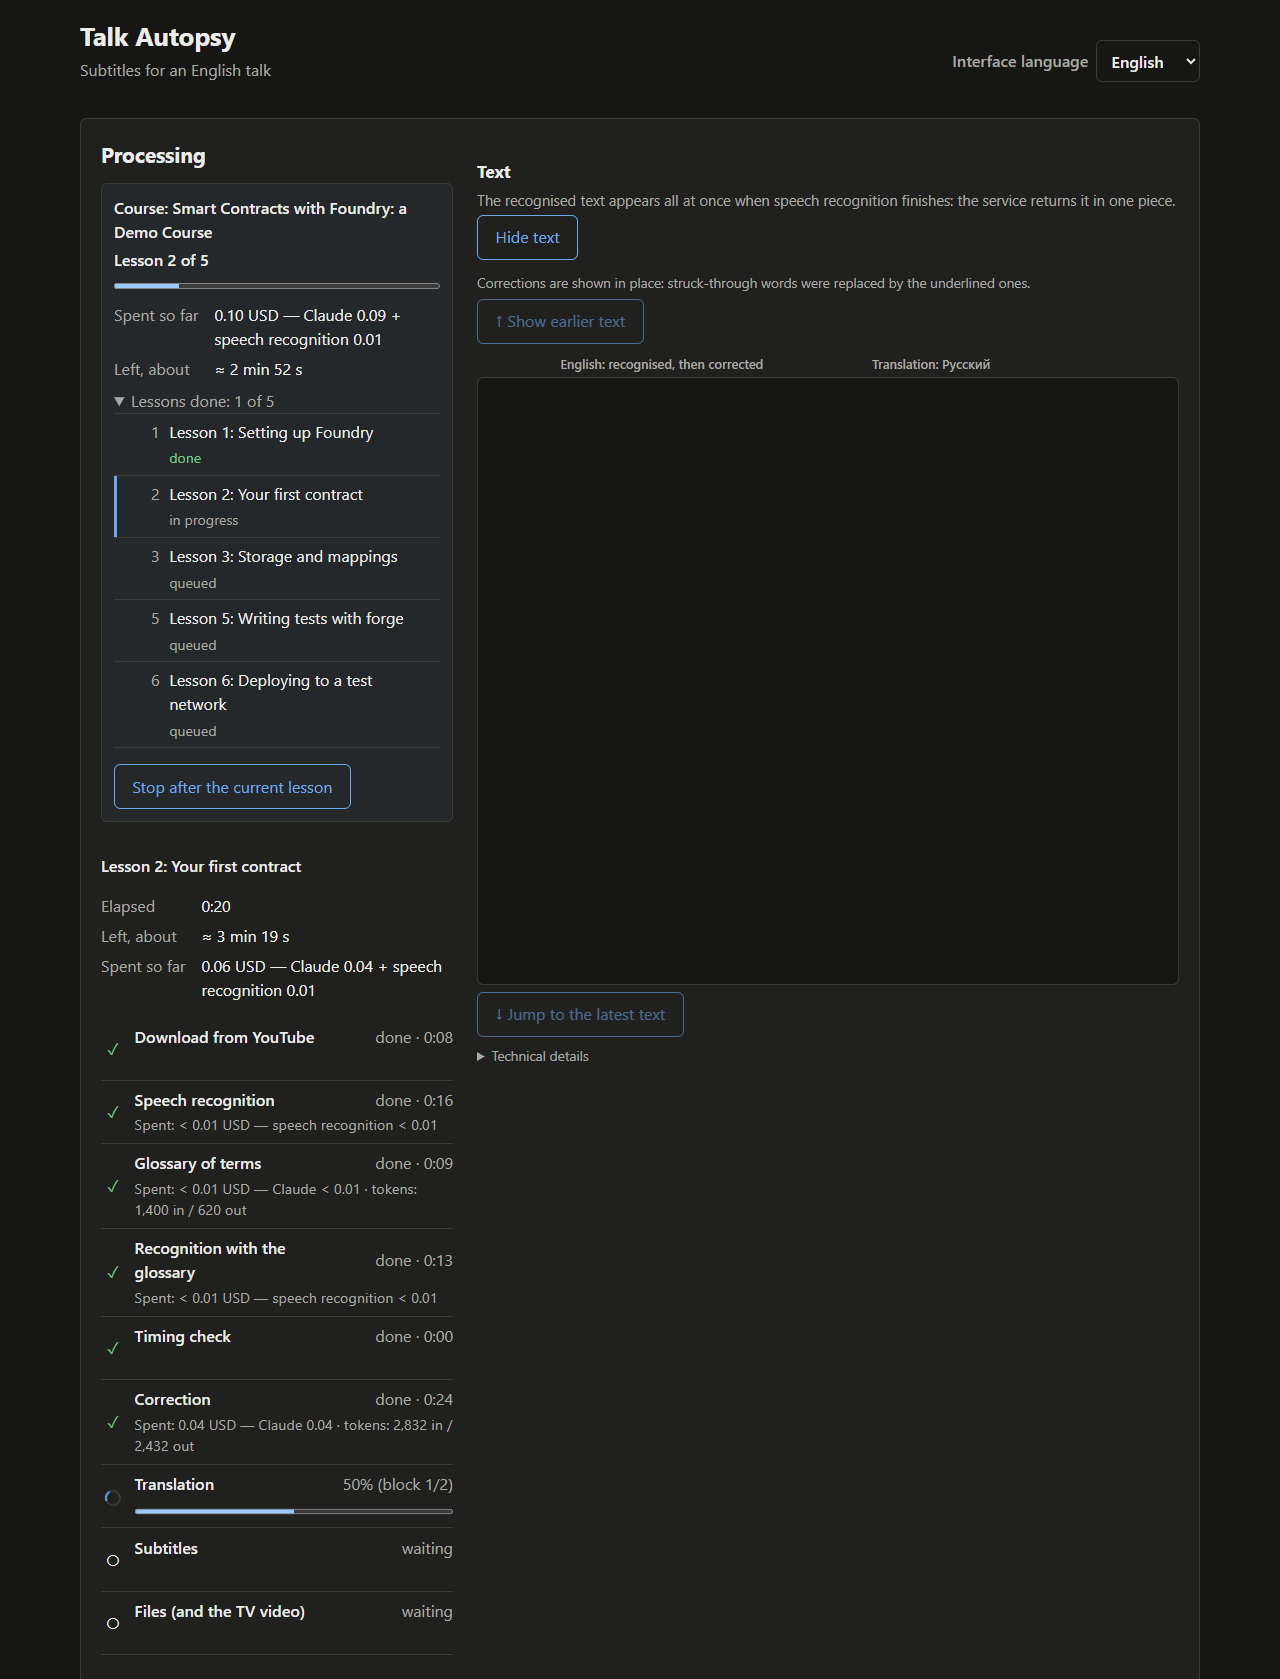
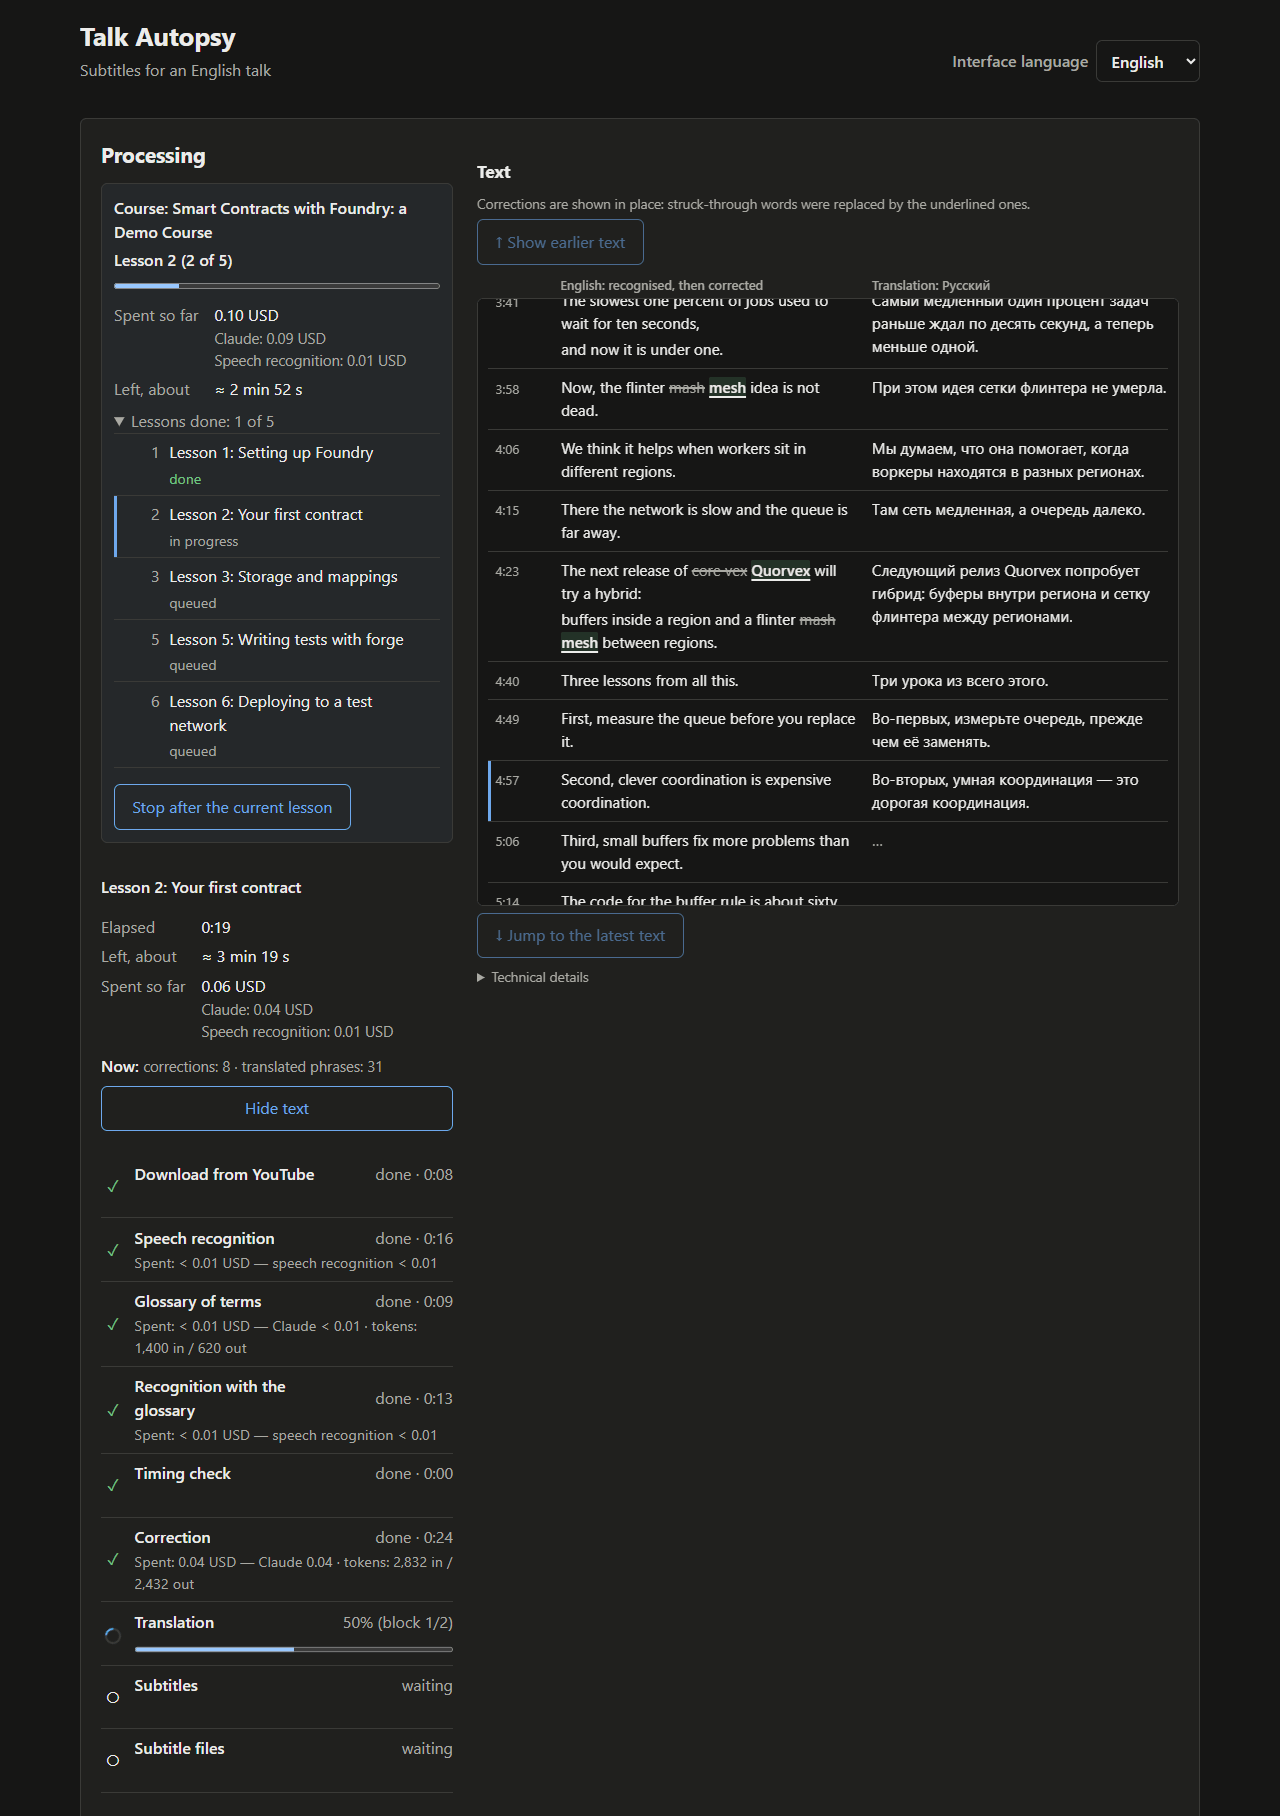
Docs: owner's course notes, web.md and README pictures
Records which of the owner's notes were bugs (fixed with a failing test
first) and which were wording and layout, updates docs/web.md, and
regenerates the README pictures for the new left column (now line, the
text toggle, money lines).

diff --git a/docs/web.md b/docs/web.md
@@ -107,13 +107,22 @@ GET  /api/course/glossary/{id}-> the course glossary file as text
   (3 USD) **in total** the usual confirmation is needed, server-side; each
   lesson then runs with the pipeline's usual ceiling (`JobRunner.allowance`).
 - **Waiting screen.** A course header above the usual one-video view: the
-  course title, "lesson 3 of 12", an overall bar (finished lessons), the money
+  course title, "lesson 13 (3 of 12)" (the playlist position, then the place
+  in this run), an overall bar (finished lessons), the money
   of the course so far (the running lesson included), the time left (the queued
   lessons' estimates plus the running lesson's own remaining time), the lessons
   with their status (queued / in progress / done / error / skipped; an error
   with its reason in words, the same sentences as the Failed screen) and "Stop
   after the current lesson" (the lesson finishes; the rest stay queued). A
-  failed lesson does not stop the course.
+  failed lesson does not stop the course. The page stops following a lesson's
+  text one second after the lesson ends, but only that lesson's: the course
+  attaches the next one at once (bug, 2026-11-15: the next lesson's panel froze,
+  with no new rows, no scrolling and both buttons disabled). In a course the
+  note under the steps says that the course can stop after the current lesson.
+  The console names the playlist link when a course starts and, at its end,
+  what is left of the selection and which of the course's lessons are not
+  translated yet. `course.json` keeps the lessons of earlier runs that are not
+  in the current selection (bug, 2026-11-15).
 - **Folders.** `<output>/<date> <course title>/NN <lesson title>/`, NN the
   playlist position zero-padded to the playlist's size, names cut at a word.
   The course's service folder holds `course.json` (the request, every lesson's
@@ -181,7 +190,13 @@ as it sees the end.
 
 Left: the steps (state, elapsed time, a bar where there is a real position,
 cost and tokens of each finished step), the remaining time and the running
-cost. Right: the text, in two aligned columns.
+cost (the total, then Claude and speech recognition on lines of their own, as
+the column is narrow), and **"Now: ..."**, the text's summary line (the
+recognition pass, corrections made, phrases translated), with the button that
+shows or hides the text under it: both stay in the left column, in the same
+place whether the text is shown or not (owner, 2026-11-15). The files step is
+named after what it makes ("Subtitle files" with the DLNA profile, "Files (and
+the TV video)" with the burn-in). Right: the text, in two aligned columns.
 
 - **Rows.** `web/transcript.py` folds the events into rows: a row is the
   smallest run of consecutive segments that no sentence unit crosses, so a

diff --git a/docs/decisions.md b/docs/decisions.md
@@ -6,6 +6,28 @@ log records what was decided and why.
 
 Entry format: date, decision, why, and what it rules out.
 
+## 2026-11-15 — The owner's notes on the course screens (STOP 4)
+
+After the owner's real course run (lessons 11-15, watched on the TV through
+DLNA, subtitles fine):
+
+- **Bugs, fixed with a failing test first:** the next lesson's text panel froze
+  after a course moved on (the ended lesson's delayed stop switched off the
+  new lesson's panel; `48f7d87`, test first in `d33d06a`);
+  the files step and the time estimate said "(and the TV video)" with the DLNA
+  profile; `course.json` of a second submission reset earlier lessons to "not
+  selected". The "56 phrases translated" while the rows showed "…" was the
+  same frozen panel: the recordings have every translated unit with its text.
+- **Wording and layout (the owner's notes, not bugs):** "glossary: smart
+  contracts / none" instead of "about smart contracts: yes"; "Translate the
+  selected lessons (N)"; "Lesson 13 (3 of 10)"; "Now: ..." and the text toggle
+  in the left column, in one place; money on lines of its own in the narrow
+  column; the course note says the course can stop after the current lesson;
+  the console's course lines (link at the start, plural, what is left).
+- **Lesson 13's one line in English** (a compiler error message read off the
+  screen) is the Backlog class "a terminal message is still refused once", not
+  a bug; nothing re-run.
+
 ## 2026-11-15 — Real-use guard failed on cost: the default Web3 dictionary is `web3.md` again
 
 Applied as recorded on 2026-11-14 (`docs/experiments.md`, real-use guard
